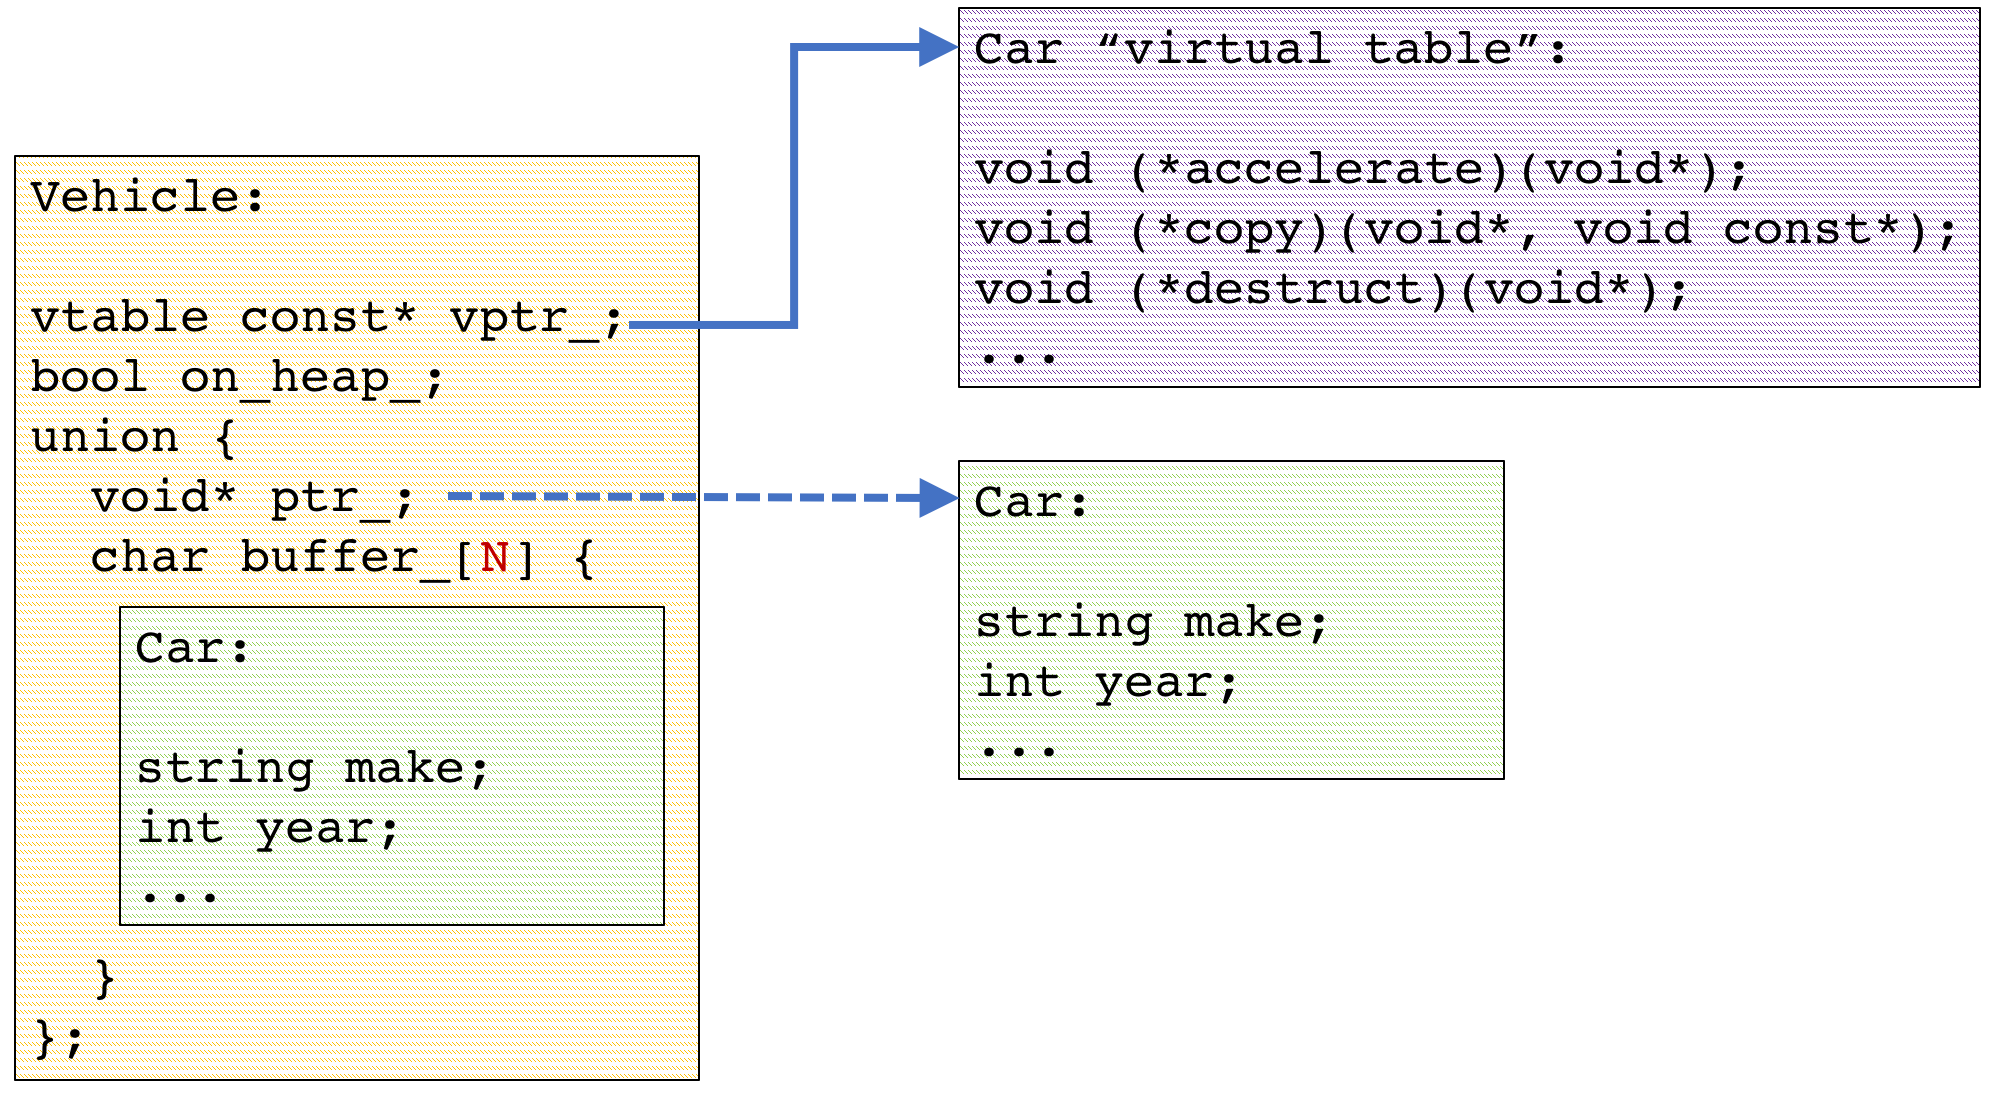
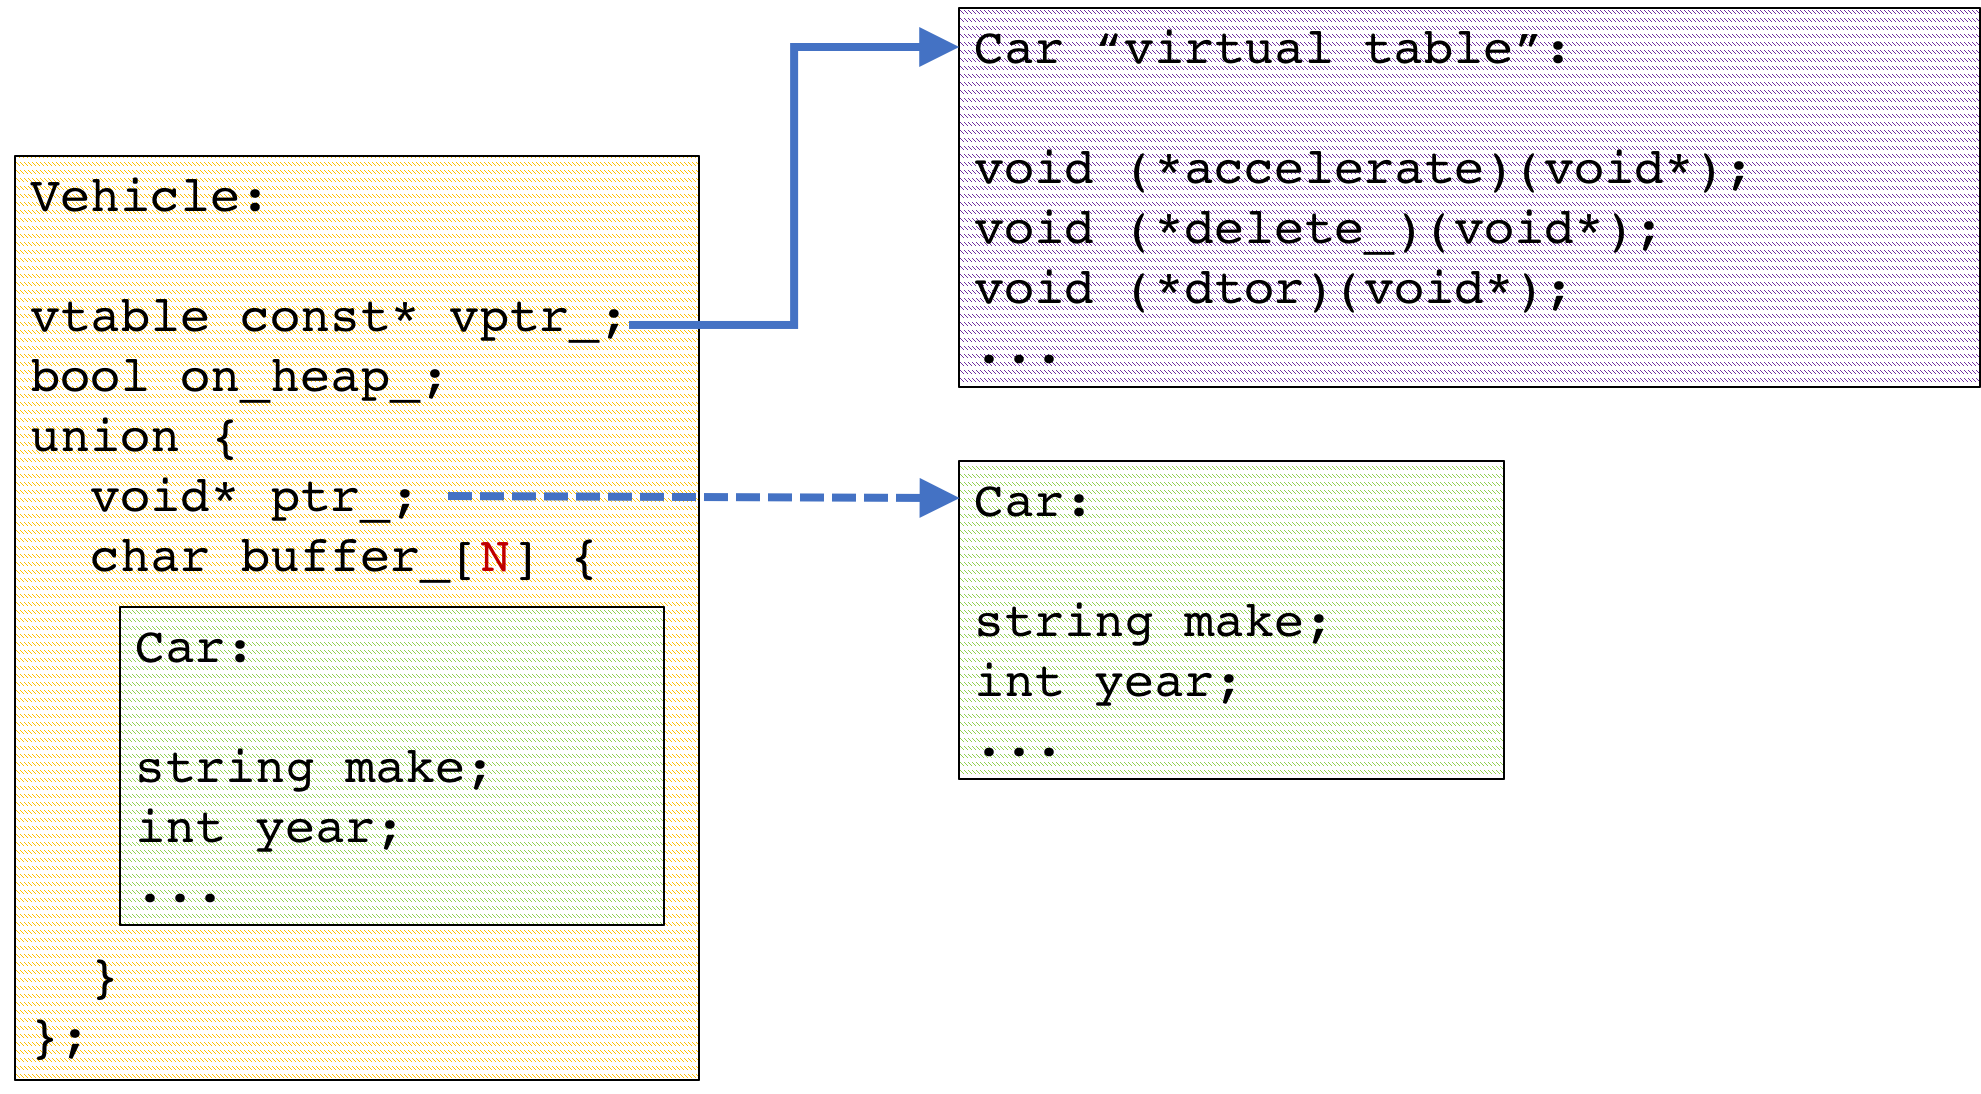
Use new/delete instead of malloc/free + ctors

Changed region(s): [[0.0, 0.0622, 0.4003, 0.9945], [0.4619, 0.0, 1.0, 0.3729], [0.4311, 0.404, 0.7698, 0.7148]]

diff --git a/index.html b/index.html
@@ -40,8 +40,6 @@
 - need to explain that these are compile-time strings, what that means, especially for performance
 - Diagrams would help with the first few slides on type erasure.
 - On the first appearance of std::malloc, show the vtable as fast as possible
-- Consider merging malloc + placement new into single call to new, nad dtor + free into `delete`
-- there's a leak if the ctor of Any throws when I use malloc for remote storage
 - we can inline the bool into the vtable's function definition, since they always know whether the thing is going to be SBO'd or not
 - Perhaps too many benchmark results.
 - Use bar graphs instead of Google.Benchmark tables to show results.

diff --git a/code/joined_vtable.cpp b/code/joined_vtable.cpp
@@ -10,23 +10,21 @@
 
 // sample(vtable)
 struct vtable {
-  void (*dtor)(void* this_);
+  void (*delete_)(void* this_);
   // ...
-  void (*copy)(void* p, void const* other); // skip-sample
-  std::size_t sizeof_;                      // skip-sample
+  void* (*clone)(void const* other); // skip-sample
 };
 
 template <typename T>
 vtable const vtable_for = {
   [](void* this_) {
-    static_cast<T*>(this_)->~T();
+    delete static_cast<T*>(this_);
   }
   // ...
-  ,                                           // skip-sample
-  [](void* p, void const* other) {            // skip-sample
-    new (p) T(*static_cast<T const*>(other)); // skip-sample
-  },                                          // skip-sample
-  sizeof(T)                                   // skip-sample
+  ,                                               // skip-sample
+  [](void const* this_) -> void* {                // skip-sample
+    return new T(*static_cast<T const*>(this_));  // skip-sample
+  }                                               // skip-sample
 };
 // end-sample
 
@@ -54,23 +52,19 @@ public:
   template <typename Any>
   Vehicle(Any vehicle)
     : vtbl_{joined_vtable_for<Any>}
-    , ptr_{std::malloc(sizeof(Any))}
-  { new (ptr_) Any{vehicle}; }
+    , ptr_{new Any(vehicle)}
+  { }
                                                       // skip-sample
   Vehicle(Vehicle const& other)                       // skip-sample
     : vtbl_{other.vtbl_}                              // skip-sample
-    , ptr_{std::malloc(other.vtbl_.remote->sizeof_)}  // skip-sample
-  {                                                   // skip-sample
-    other.vtbl_.remote->copy(ptr_, other.ptr_);       // skip-sample
-  }                                                   // skip-sample
+    , ptr_{other.vtbl_.remote->clone(other.ptr_)}     // skip-sample
+  { }                                                 // skip-sample
 
   void accelerate()
   { vtbl_.accelerate(ptr_); }
 
-  ~Vehicle() {
-    vtbl_.remote->dtor(ptr_);
-    std::free(ptr_);
-  }
+  ~Vehicle()
+  { vtbl_.remote->delete_(ptr_); }
 };
 // end-sample
 

diff --git a/code/vtable.hpp b/code/vtable.hpp
@@ -10,9 +10,10 @@
 // sample(vtable)
 struct vtable {
   void (*accelerate)(void* this_);
-  void (*dtor)(void* this_);
+  void (*delete_)(void* this_);
+  void* (*clone)(void const* this_);        // skip-sample
   void (*copy)(void* p, void const* other); // skip-sample
-  std::size_t sizeof_;                      // skip-sample
+  void (*dtor)(void* p);                    // skip-sample
 };
 
 template <typename T>
@@ -22,13 +23,20 @@ vtable const vtable_for = {
   },
 
   [](void* this_) {
-    static_cast<T*>(this_)->~T();
+    delete static_cast<T*>(this_);
   }
-  ,                                           // skip-sample
-  [](void* p, void const* other) {            // skip-sample
-    new (p) T(*static_cast<T const*>(other)); // skip-sample
-  },                                          // skip-sample
-  sizeof(T)                                   // skip-sample
+  ,                                               // skip-sample
+  [](void const* this_) -> void* {                // skip-sample
+    return new T(*static_cast<T const*>(this_));  // skip-sample
+  },                                              // skip-sample
+                                                  // skip-sample
+  [](void* p, void const* other) {                // skip-sample
+    new (p) T(*static_cast<T const*>(other));     // skip-sample
+  },                                              // skip-sample
+                                                  // skip-sample
+  [](void* this_) {                               // skip-sample
+    static_cast<T*>(this_)->~T();                 // skip-sample
+  }                                               // skip-sample
 };
 // end-sample
 

diff --git a/code/local_vtable.cpp b/code/local_vtable.cpp
@@ -15,23 +15,19 @@ struct Vehicle {
   template <typename Any>
   Vehicle(Any vehicle)
     : vtbl_{vtable_for<Any>}
-    , ptr_{std::malloc(sizeof(Any))}
-  { new (ptr_) Any{vehicle}; }
+    , ptr_{new Any(vehicle)}
+  { }
                                                       // skip-sample
   Vehicle(Vehicle const& other)                       // skip-sample
     : vtbl_{other.vtbl_}                              // skip-sample
-    , ptr_{std::malloc(other.vtbl_.sizeof_)}          // skip-sample
-  {                                                   // skip-sample
-    other.vtbl_.copy(ptr_, other.ptr_);               // skip-sample
-  }                                                   // skip-sample
+    , ptr_{other.vtbl_.clone(other.ptr_)}             // skip-sample
+  { }                                                 // skip-sample
 
   void accelerate()
   { vtbl_.accelerate(ptr_); }
 
-  ~Vehicle() {
-    vtbl_.dtor(ptr_);
-    std::free(ptr_);
-  }
+  ~Vehicle()
+  { vtbl_.delete_(ptr_); }
 
 private:
   vtable const vtbl_; // <= not a pointer!

diff --git a/code/remote_storage.cpp b/code/remote_storage.cpp
@@ -19,23 +19,19 @@ public:
   template <typename Any>
   Vehicle(Any vehicle)
     : vptr_{&vtable_for<Any>}
-    , impl_{std::malloc(sizeof(Any))}
-  { new (impl_) Any{vehicle}; }
+    , impl_{new Any(vehicle)}
+  { }
                                                       // skip-sample
   Vehicle(Vehicle const& other)                       // skip-sample
     : vptr_{other.vptr_}                              // skip-sample
-    , impl_{std::malloc(other.vptr_->sizeof_)}        // skip-sample
-  {                                                   // skip-sample
-    other.vptr_->copy(impl_, other.impl_);            // skip-sample
-  }                                                   // skip-sample
+    , impl_{other.vptr_->clone(other.impl_)}          // skip-sample
+  { }                                                 // skip-sample
 
   void accelerate()
   { vptr_->accelerate(impl_); }
 
-  ~Vehicle() {
-    vptr_->dtor(impl_);
-    std::free(impl_);
-  }
+  ~Vehicle()
+  { vptr_->delete_(impl_); }
 };
 // end-sample
 

diff --git a/code/sbo_storage.cpp b/code/sbo_storage.cpp
@@ -26,8 +26,7 @@ public:
   Vehicle(Any vehicle) : vptr_{&vtable_for<Any>} {
     if (sizeof(Any) > 16) {
       on_heap_ = true;
-      ptr_ = std::malloc(sizeof(Any));
-      new (ptr_) Any{vehicle};
+      ptr_ = new Any(vehicle);
     } else {
       on_heap_ = false;
       new (&buffer_) Any{vehicle};
@@ -37,8 +36,7 @@ public:
 
   Vehicle(Vehicle const& other) : vptr_{other.vptr_} {
     if (other.on_heap_) {
-      ptr_ = std::malloc(other.vptr_->sizeof_);
-      other.vptr_->copy(ptr_, other.ptr_);
+      ptr_ = other.vptr_->clone(other.ptr_);
     } else {
       other.vptr_->copy(&buffer_, &other.buffer_);
     }
@@ -53,8 +51,7 @@ public:
 // sample(Vehicle::~Vehicle)
   ~Vehicle() {
     if (on_heap_) {
-      vptr_->dtor(ptr_);
-      std::free(ptr_);
+      vptr_->delete_(ptr_);
     } else {
       vptr_->dtor(&buffer_);
     }

diff --git a/code/joined_vtable.dyno.cpp b/code/joined_vtable.dyno.cpp
@@ -23,7 +23,7 @@ struct Vehicle {
 private:
   using VTable = dyno::vtable<
                   dyno::local<dyno::only<decltype("accelerate"_s)>>,
-                  dyno::remote<dyno::everything>>;
+                  dyno::remote<dyno::everything_else>>;
   //             ^^^^^^^^^^^^^^^^^^^^^^^^^^^^^^^^^^^^^^^^^^^^^^^^^^^
   dyno::poly<IVehicle, dyno::remote_storage, VTable> poly_;
 };
